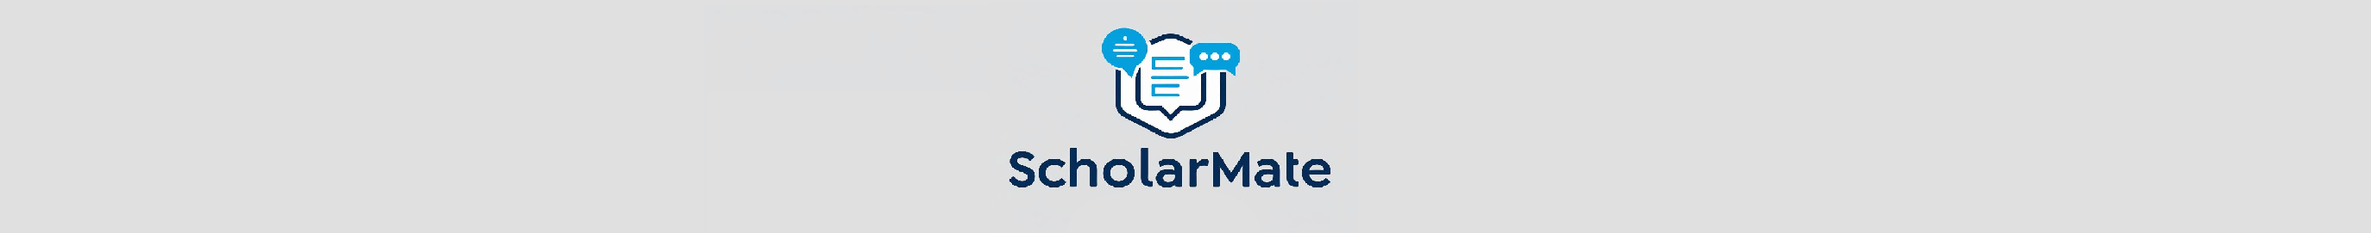
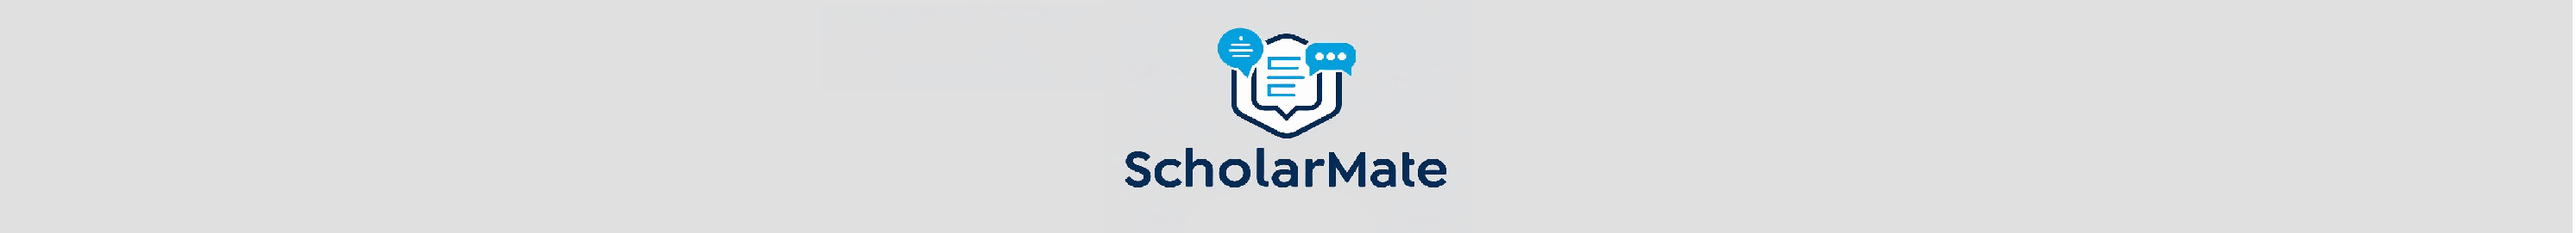
some changes

Changed region(s): [[0.9898, 0.0, 1.0, 1.0], [0.464, 0.1181, 0.5258, 0.5904], [0.4021, 0.6199, 0.5568, 0.8266]]

diff --git a/main.py b/main.py
@@ -17,6 +17,10 @@ import pytz
 import os
 from PIL import Image
 import base64
+import requests
+from datetime import datetime
+import pytz
+
 load_dotenv()
 
 # -------------------- Page Configuration --------------------
@@ -28,14 +32,25 @@ st.set_page_config(
 )
 
 # -------------------- Time-Based Greeting --------------------
+def get_user_timezone():
+    try:
+        response = requests.get("https://ipinfo.io/json")
+        data = response.json()
+        return data.get("timezone", "UTC")
+    except:
+        return "UTC"
+
 def get_greeting():
-    hour = datetime.now(pytz.timezone('UTC')).hour
+    user_timezone = get_user_timezone()
+    now = datetime.now(pytz.timezone(user_timezone))
+    hour = now.hour
+
     if 4 <= hour < 12:
-        return "🌞 Good Morning! Ready to learn?"
+        return "Good Morning! Ready to learn?"
     elif 12 <= hour < 16:
-        return "🌤 Good Afternoon! Let's study!"
+        return "Good Afternoon! Let's study!"
     else:
-        return "🌆 Good Evening! Time for knowledge!"
+        return "Good Evening! Time for knowledge!"
 
 # -------------------- Theme System --------------------
 def apply_theme(theme_name, dark_mode):
@@ -151,7 +166,7 @@ st.markdown(f"""
     .brand-logo {{
         position: absolute;
         top: -65px;
-        left: 60px;
+        left: 85px;
         display: flex;
         align-items: center;
         gap: 10px;
